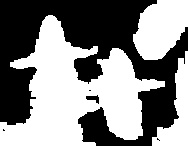
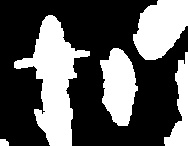
Experimented with fanning threshold examples.

diff --git a/Files/shadow_test.py b/Files/shadow_test.py
@@ -10,8 +10,8 @@ def to_thresh(img,bk):
     thresh=cv2.morphologyEx(thresh,cv2.MORPH_OPEN,kernel)
     return thresh
 
-img = cv2.imread("C:/Users/obrienam/Documents/GitHub/BeeFanningDetector/Assets/fan_ref/ref_5.jpg")
-bk = cv2.imread("C:/Users/obrienam/Documents/GitHub/BeeFanningDetector/Assets/fan_ref/bk_5.jpg")
+img = cv2.imread("C:/Users/obrienam/Documents/GitHub/BeeFanningDetector/Assets/fan_ref/ref_3.jpg")
+bk = cv2.imread("C:/Users/obrienam/Documents/GitHub/BeeFanningDetector/Assets/fan_ref/bk_3_2.jpg")
 '''
 rgb_planes = cv2.split(img)
 
@@ -32,9 +32,12 @@ cv2.imwrite('shadows_out.jpg', result)
 cv2.imwrite('shadows_out_norm.jpg', result_norm)
 img=cv2.imread('/Users/aidanobrien/Documents/GitHub/BeeFanningDetector/Assets/shadows_out_norm.jpg')
 bk=cv2.imread('/Users/aidanobrien/Documents/GitHub/BeeFanningDetector/Assets/white_bk.jpg')
-thresh=to_thresh(img,bk)
-im2, contours, hierarchy = cv2.findContours(thresh, cv2.RETR_TREE, cv2.CHAIN_APPROX_SIMPLE)
-cv2.drawContours(img, contours, -1, (0,255,0), 3)
 '''
 thresh=to_thresh(img,bk)
-cv2.imwrite('C:/Users/obrienam/Documents/GitHub/BeeFanningDetector/Assets/fan_ref/thresh_5.jpg', thresh)
+im2, contours, hierarchy = cv2.findContours(thresh, cv2.RETR_TREE, cv2.CHAIN_APPROX_SIMPLE)
+cv2.drawContours(img, contours, 0, (0,255,0), 3)
+print(contours[0].size)
+
+#thresh=to_thresh(img,bk)
+cv2.imwrite('C:/Users/obrienam/Documents/GitHub/BeeFanningDetector/Assets/fan_ref/thresh_3.jpg', thresh)
+cv2.imwrite('C:/Users/obrienam/Documents/GitHub/BeeFanningDetector/Assets/fan_ref/img_cnt_test.jpg', img)
